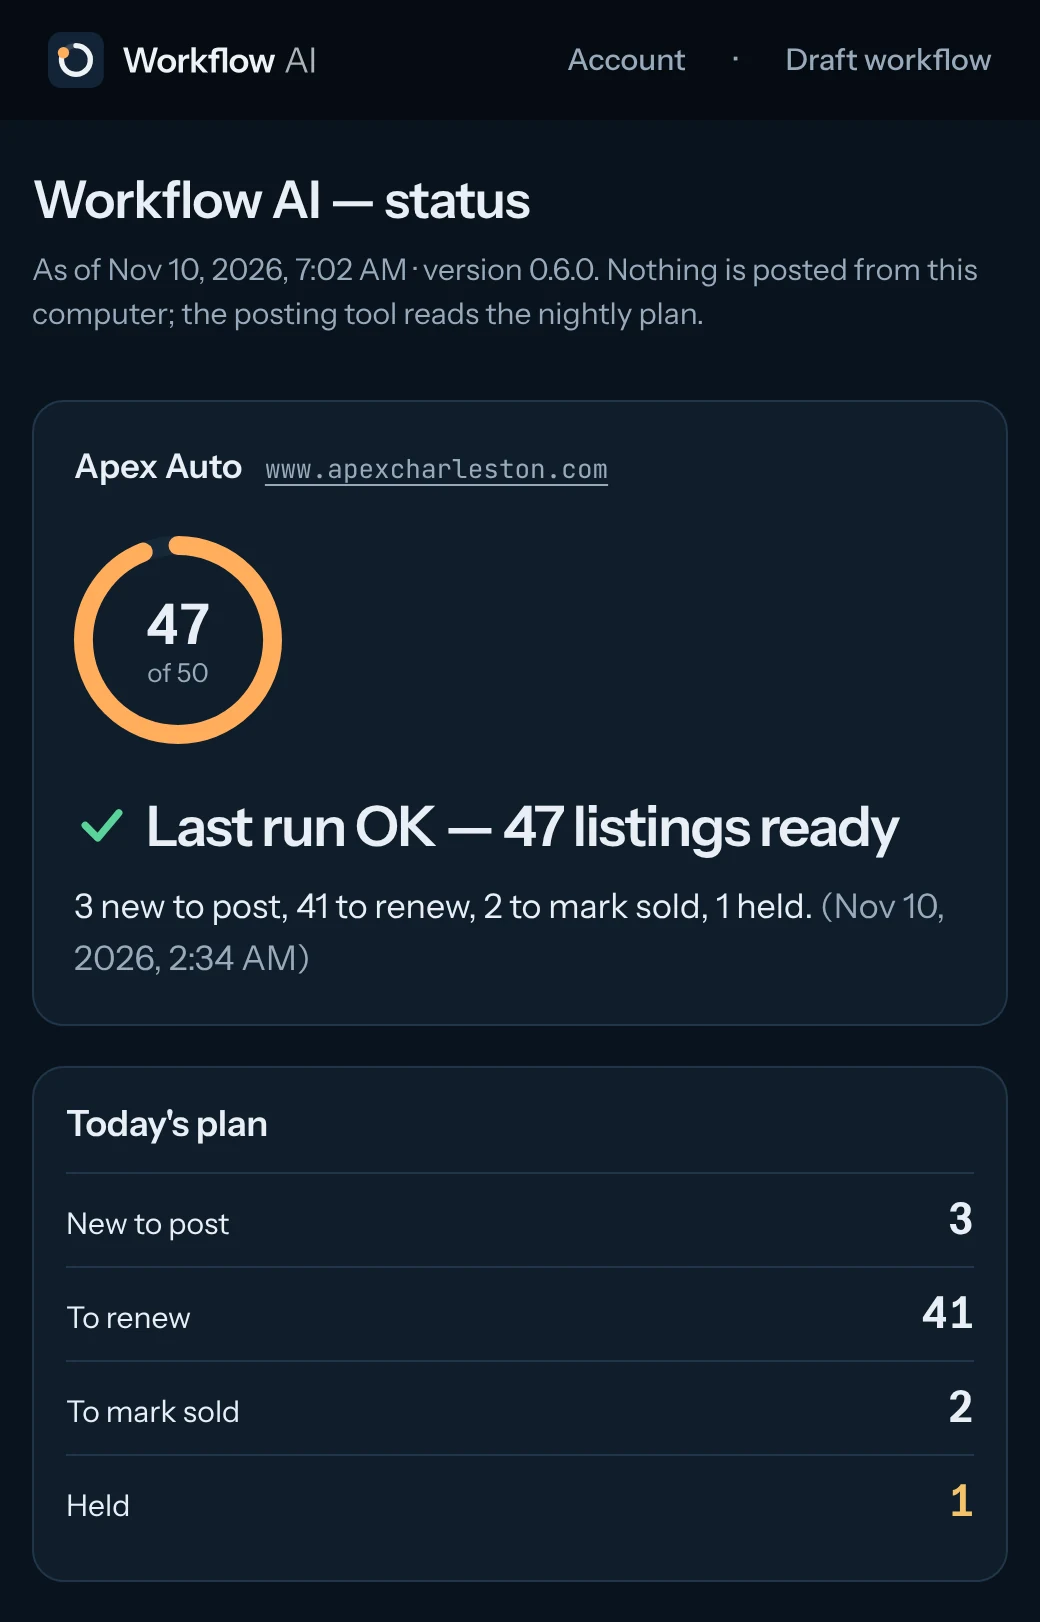
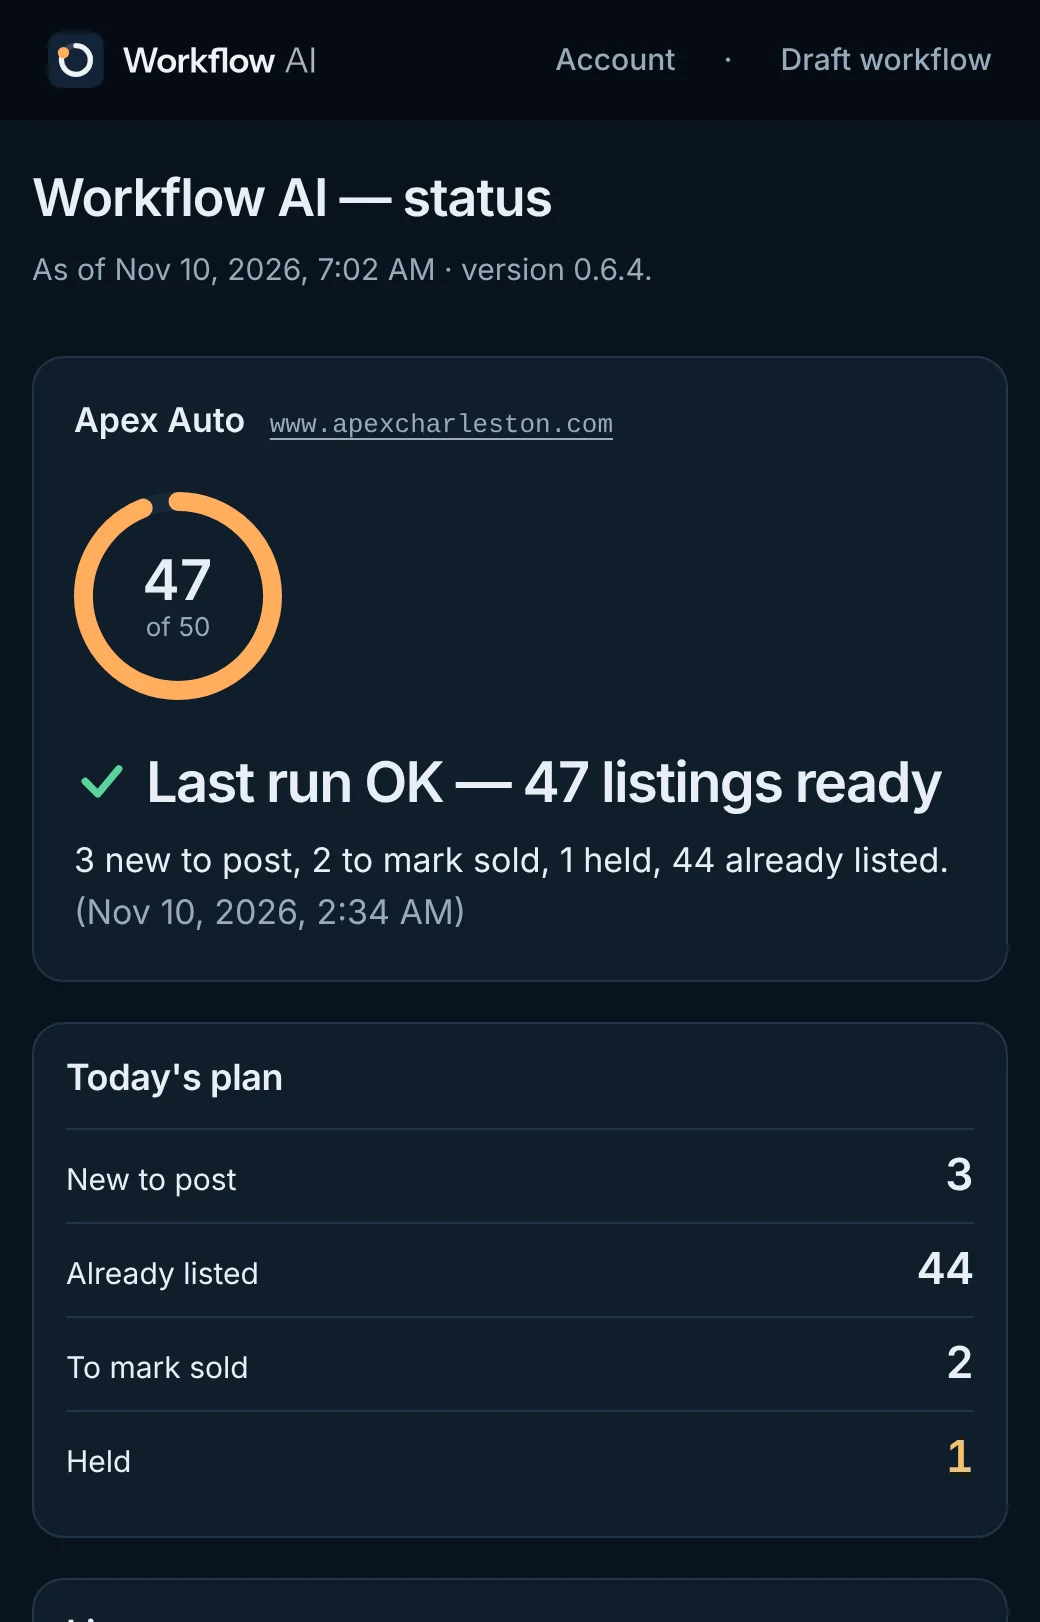
Automotive page: the dealer product, plans and payment links under an "Automotive" tab
The home page links to it from the nav and the "Inventory and listings" card. The hero
screenshot is re-rendered from the 0.6.4 status page (sample figures).

Claude-Session: https://claude.ai/code/session_01JWVdDvFu2kp5nC6KjhbzKF

diff --git a/automotive.html b/automotive.html
@@ -1,0 +1,125 @@
+<!doctype html>
+<html lang="en">
+<head>
+<meta charset="utf-8">
+<meta name="viewport" content="width=device-width, initial-scale=1">
+<title>Workflow AI for automotive — your website inventory, ready for Marketplace every morning</title>
+<meta name="description" content="Workflow AI is a monthly software subscription for used-car dealers. Every night it reads the vehicles on your website and prepares the listing text, photos and a posting plan for Facebook Marketplace.">
+<meta name="theme-color" content="#0d1b2a">
+<link rel="icon" href="/favicon.ico" sizes="any">
+<link rel="icon" href="/favicon.svg" type="image/svg+xml">
+<link rel="apple-touch-icon" href="/apple-touch-icon.png">
+<link rel="preload" href="/assets/fonts/instrument-sans-latin-600-normal.woff2" as="font" type="font/woff2" crossorigin>
+<link rel="preload" href="/assets/fonts/instrument-sans-latin-400-normal.woff2" as="font" type="font/woff2" crossorigin>
+<link rel="stylesheet" href="/assets/site.css">
+</head>
+<body>
+<a class="skip" href="#main">Skip to content</a>
+
+<header class="wf-header wf-header--site"><div class="wf-header__inner">
+    <a class="wf-header__brand" href="/"><img src="/assets/img/workflow-ai-wordmark-reverse.svg" alt="Workflow AI" width="173" height="36"></a>
+    <nav aria-label="Site"><a href="/">Home</a><a href="#how">How it works</a><a href="#plans">Plans</a><a href="#faq">Questions</a><a href="#contact">Contact</a></nav>
+  </div></header>
+
+<main id="main">
+<div class="band">
+  <div class="wrap hero">
+    <div class="hero__copy">
+      <p class="eyebrow">Automotive · for independent used-car dealers</p>
+      <h1>It works the night shift. You check it at 7.</h1>
+      <p class="hero__lead">Workflow AI is software for independent used-car dealers. Every night it reads the vehicles on your own website and prepares the listing text, the photos and a posting plan for Facebook Marketplace, so your lot and your listings always match.</p>
+      <div class="actions"><a class="wf-btn wf-btn--primary wf-btn--lg" href="#plans">See plans</a><a class="wf-btn wf-btn--night wf-btn--lg" href="#how">How it works</a></div>
+    </div>
+    <figure class="hero__shot">
+      <picture>
+        <source srcset="/assets/img/status-page-dark.webp" media="(prefers-color-scheme: dark)">
+        <img src="/assets/img/status-page-light.webp" width="1040" height="1622" alt="The Workflow AI status page: last run OK, 47 listings ready of a 50-vehicle plan, finished at 2:34 AM. Today's plan: 3 new to post, 2 to mark sold, 1 held.">
+      </picture>
+      <figcaption>The status page a dealer opens each morning (sample figures).</figcaption>
+    </figure>
+  </div>
+
+  <div class="wrap night">
+    <h2 class="sr-only">One night, start to finish</h2>
+    <ol class="wf-timeline">
+      <li><span class="wf-timeline__time">2:30 AM</span><span class="wf-timeline__text">Reads every vehicle on your website</span></li>
+      <li><span class="wf-timeline__time">2:33 AM</span><span class="wf-timeline__text">Writes a listing and saves the photos for each one</span></li>
+      <li><span class="wf-timeline__time">2:34 AM</span><span class="wf-timeline__text">Builds today's plan: what to post, what to mark sold</span></li>
+      <li class="is-morning"><span class="wf-timeline__time">7:00 AM</span><span class="wf-timeline__text">You open one page and see if it worked</span></li>
+    </ol>
+  </div>
+</div>
+
+<section class="section" id="how"><div class="wrap">
+  <h2>How it works</h2>
+  <p class="lead">It installs on one computer at the dealership and runs by itself overnight. Nothing to type in, no spreadsheets to keep up with.</p>
+  <div class="cards">
+    <div class="wf-card"><p class="step">Step 1</p><h3>Reads your website</h3><p>Each night it pulls every vehicle your site shows for sale — year, make, model, trim, price, mileage, VIN and photos — straight from the pages your customers see.</p></div>
+    <div class="wf-card"><p class="step">Step 2</p><h3>Prepares the listings</h3><p>One listing per vehicle, written from the facts on your site: a clean headline, miles and price, your standing statements, the VIN and your sign-off. Photos are saved alongside, in order.</p></div>
+    <div class="wf-card"><p class="step">Step 3</p><h3>Builds the day's plan</h3><p>What to post and what to mark sold — based on what changed on your website. Your posting tool or your team works from that plan each morning.</p></div>
+  </div>
+</div></section>
+
+<section class="section section--alt" id="plans"><div class="wrap">
+  <h2>Plans</h2>
+  <p class="lead">Priced by the size of your lot. One subscription covers one location; add locations at checkout. Pay yearly and get two months free. Cancel any time from your billing portal. Subscriptions are governed by the <a href="/terms.html">Dealer Subscription Agreement</a>.</p>
+  <div class="cards">
+    <div class="wf-card wf-card--featured plan">
+      <p class="wf-card__eyebrow">Most independents</p><h3 class="wf-card__title">Independent</h3>
+      <div class="plan__price">$1,200<small> / month</small></div><p class="plan__note">Up to 50 vehicles</p>
+      <ul><li>Nightly website sync</li><li>Listing text and photos for every vehicle</li><li>Daily posting plan</li><li>Status page: is it working?</li><li>Email support</li></ul>
+      <div class="plan__buy"><a class="wf-btn wf-btn--solid wf-btn--block" href="https://buy.stripe.com/cNi28s6HkahueNbapl9Zm00">Start — monthly</a><a class="plan__yearly" href="https://buy.stripe.com/5kQdRa5DgcpC34t2WT9Zm01">or $12,000 / year (2 months free)</a></div>
+    </div>
+    <div class="wf-card plan">
+      <p class="wf-card__eyebrow">Larger lots</p><h3 class="wf-card__title">Dealer</h3>
+      <div class="plan__price">$1,600<small> / month</small></div><p class="plan__note">51 to 150 vehicles</p>
+      <ul><li>Everything in Independent</li><li>Up to 150 vehicles listed</li></ul>
+      <div class="plan__buy"><a class="wf-btn wf-btn--secondary wf-btn--block" href="https://buy.stripe.com/3cIfZic1E3T60Wl5519Zm02">Start — monthly</a><a class="plan__yearly" href="https://buy.stripe.com/28E9AU9TwfBO34t8hd9Zm03">or $16,000 / year (2 months free)</a></div>
+    </div>
+    <div class="wf-card plan">
+      <p class="wf-card__eyebrow">High volume</p><h3 class="wf-card__title">Franchise</h3>
+      <div class="plan__price">$2,400<small> / month</small></div><p class="plan__note">151 to 500 vehicles</p>
+      <ul><li>Everything in Independent</li><li>Up to 500 vehicles listed</li></ul>
+      <div class="plan__buy"><a class="wf-btn wf-btn--secondary wf-btn--block" href="https://buy.stripe.com/eVqbJ2aXA4Xa8oNgNJ9Zm04">Start — monthly</a><a class="plan__yearly" href="https://buy.stripe.com/7sY6oIfdQ3T648x8hd9Zm05">or $24,000 / year (2 months free)</a></div>
+    </div>
+  </div>
+  <p class="fineprint">Each plan allows 10% over its vehicle count before anything changes. More than 500 vehicles, or several locations under one agreement? <a href="#contact">Talk to us.</a></p>
+</div></section>
+
+<section class="section"><div class="wrap">
+  <div class="cards">
+    <div class="wf-card"><h2 class="wf-card__title card-title-lg">What you get</h2>
+      <ul class="ticks"><li>A Windows program installed in about ten minutes, with a license code from your subscription.</li><li>A nightly run at the time you choose; the PC wakes up for it.</li><li>Listings written only from facts stated on your website — nothing invented.</li><li>A status page that tells you, in plain words, whether last night worked and why any vehicle was held back.</li><li>Automatic updates.</li></ul></div>
+  </div>
+</div></section>
+
+<section class="section section--alt" id="faq"><div class="wrap">
+  <h2>Questions</h2>
+  <div class="faq">
+    <details><summary>Will it work with my website?</summary><p>Most dealer websites, yes — including sites built on Carsforsale.com, Dealer Car Search, DealerOn and similar platforms. Before you install, we check your site and tell you exactly what it can and cannot read. Sites that block automated visitors cannot be read.</p></details>
+    <details><summary>What does a listing look like?</summary><p>Year make model and trim, then miles and price, your standing statements (for example clean title, recently serviced, passed inspection), the VIN and your dealership's sign-off — the same for every vehicle, so your listings look consistent.</p></details>
+    <details><summary>What happens if my inventory grows past my plan?</summary><p>Up to 10% over, nothing changes — you'll see a note on the status page and we'll reach out about the next plan. Beyond that, the plan keeps the vehicles it covers and holds the rest until the plan is upgraded. Nothing already listed is pulled.</p></details>
+    <details><summary>Can I cancel?</summary><p>Yes, any time from your billing portal or by emailing us. The software keeps working until the end of the period you've paid for.</p></details>
+    <details><summary>Where does my data go?</summary><p>Your inventory, listings and plans stay on your computer. Our server only sees your license code, the dealership name and website, how many vehicles are listed, and the time of each nightly check-in.</p></details>
+  </div>
+</div></section>
+
+<section class="section" id="contact"><div class="wrap">
+  <h2>Contact</h2>
+  <p class="lead">Questions before you start, a custom agreement for several locations, or help after install.</p>
+  <p class="contact"><a href="mailto:support@dailyworkflows.ai">support@dailyworkflows.ai</a><a href="tel:+18438269662">(843) 826-9662</a></p>
+</div></section>
+</main>
+
+<footer class="footer"><div class="wrap footer__inner">
+  <div>
+    <img src="/assets/img/workflow-ai-wordmark-reverse.svg" alt="Workflow AI" width="135" height="28">
+    <p>Workflow AI Solutions LLC · 8692 Windsor Hill Boulevard, North Charleston, SC 29420</p>
+  </div>
+  <div>
+    <nav aria-label="Legal"><a href="/terms.html">Terms</a><a href="/privacy.html">Privacy</a></nav>
+    <p>Payments by Stripe. Facebook and Marketplace are trademarks of Meta Platforms, Inc.; Workflow AI is not affiliated with Meta.</p>
+  </div>
+</div></footer>
+</body>
+</html>

diff --git a/index.html b/index.html
@@ -18,7 +18,7 @@
 
 <header class="wf-header wf-header--site"><div class="wf-header__inner">
     <a class="wf-header__brand" href="/"><img src="/assets/img/workflow-ai-wordmark-reverse.svg" alt="Workflow AI" width="173" height="36"></a>
-    <nav aria-label="Site"><a href="#how">How it works</a><a href="#fit">Where it fits</a><a href="#contact">Contact</a></nav>
+    <nav aria-label="Site"><a href="#how">How it works</a><a href="#fit">Where it fits</a><a href="/automotive.html">Automotive</a><a href="#contact">Contact</a></nav>
   </div></header>
 
 <main id="main">
@@ -57,7 +57,7 @@
   <h2>Where it fits</h2>
   <p class="lead">Wherever the same work piles up every day.</p>
   <div class="cards">
-    <div class="wf-card"><h3>Inventory and listings</h3><p>Keep what you sell and where it is listed in step, from the source you already maintain.</p></div>
+    <div class="wf-card"><h3>Inventory and listings</h3><p>Keep what you sell and where it is listed in step, from the source you already maintain. <a href="/automotive.html">See Workflow AI for automotive.</a></p></div>
     <div class="wf-card"><h3>Records and reporting</h3><p>Collect, check and file the records a business produces, and report what changed.</p></div>
     <div class="wf-card"><h3>Scheduled, repeatable tasks</h3><p>Anything done the same way every day or every week, run by itself at the time you choose.</p></div>
   </div>
